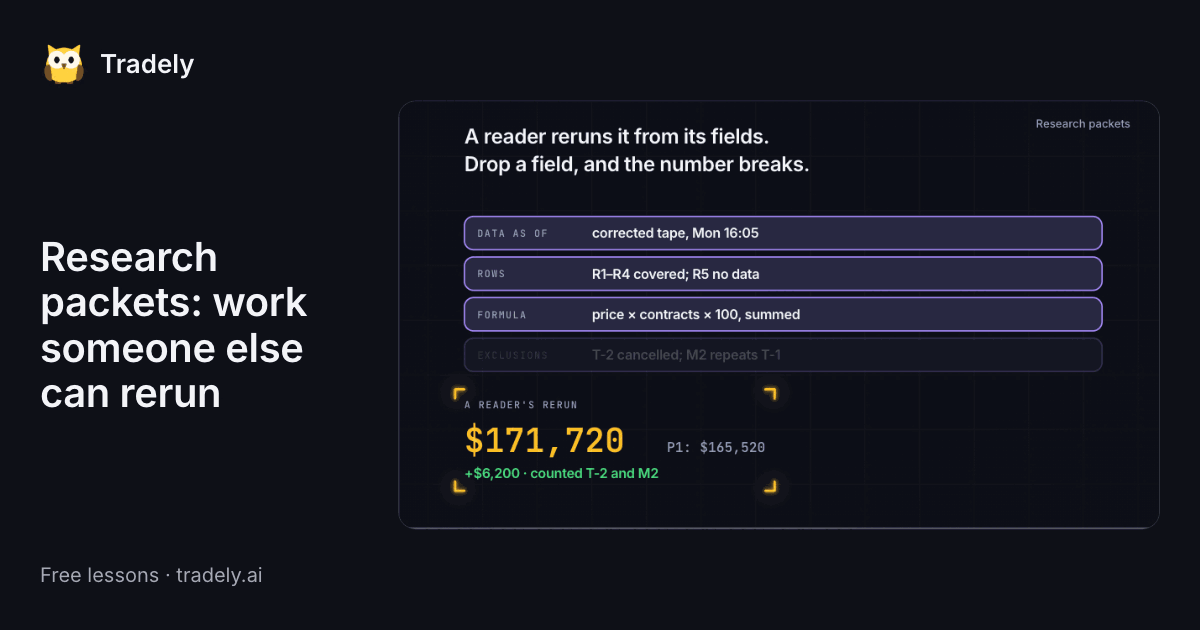
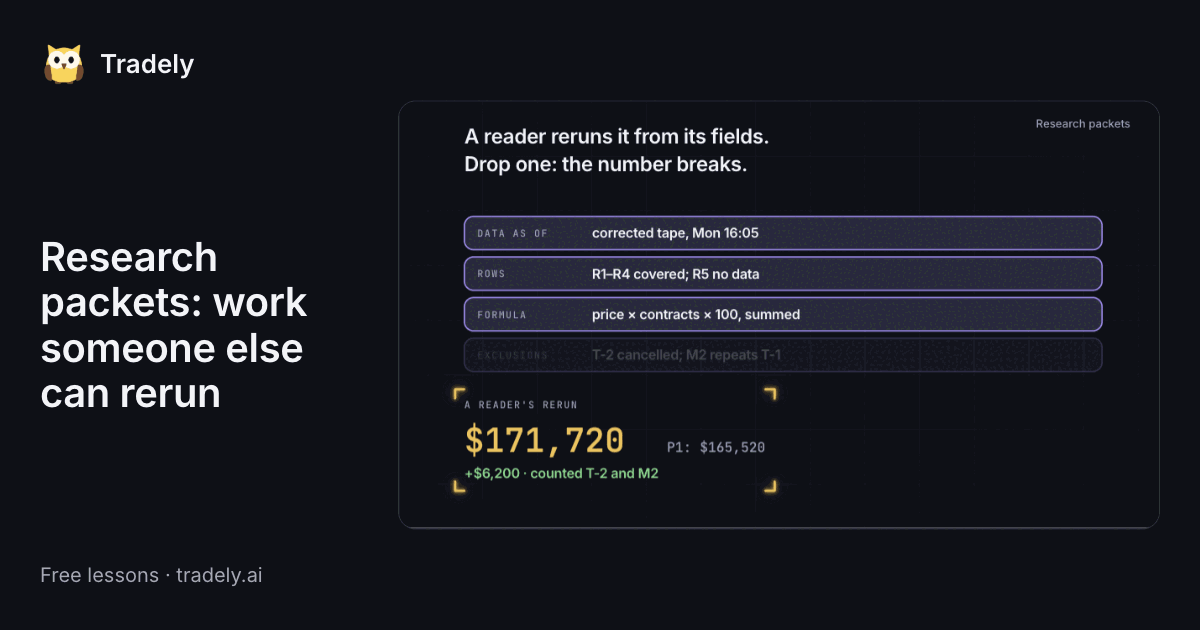
fix(learning): research-packet film's two headline pairs fit a two-line headline
"Drop a field, and the number breaks." becomes "Drop one: the number breaks." (14 words to 12). "One row per series" becomes "A row per series", 35 characters, so the 14-word pair passes as the longer pair. The share card shows the first.

The two-line headline rule decided on 2026-11-15: a pair runs 12 words, or 14 where the first line stands alone 5 s and each line is at most 36 characters, and a pair over 8 words stays up 5.5 s. English only; no timing changes.

diff --git a/apps/web/src/features/learning/lessons/cookbook-research-packet-film.tsx b/apps/web/src/features/learning/lessons/cookbook-research-packet-film.tsx
@@ -114,7 +114,7 @@ const copy = {
 	],
 	qBig: ["Would someone else get the same?", "别人重跑会得到同样的数吗？"],
 	pHead: [
-		"One row per series, traced to trades.",
+		"A row per series, traced to trades.",
 		"每个序列一行，可追溯到成交。",
 	],
 	p2Head: [
@@ -142,7 +142,7 @@ const copy = {
 		`+${dollars(TUESDAY - MONDAY)} · R5：周一数据延迟`,
 	],
 	fHead: ["A reader reruns it from its fields.", "读者按它的字段重跑。"],
-	f2Head: ["Drop a field, and the number breaks.", "少一个字段，数字就错了。"],
+	f2Head: ["Drop one: the number breaks.", "少一个字段，数字就错了。"],
 	reader: ["a reader's rerun", "读者重跑"],
 	lHead: ["Save each rerun as its own record.", "每次重跑另存一条记录。"],
 	l2Head: ["A new method is a new question.", "新方法就是新问题。"],
